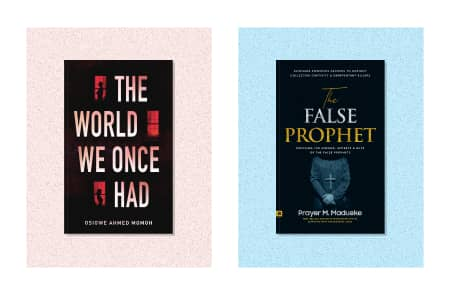
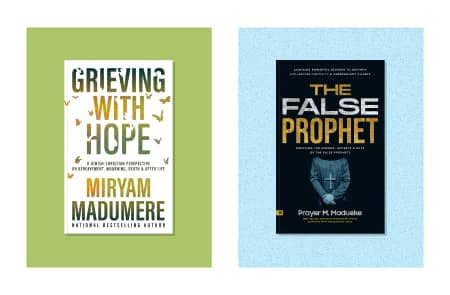
3 new book designs

diff --git a/assets/css/styles.css b/assets/css/styles.css
@@ -1868,6 +1868,12 @@ body.sidebar-opened .copyright {
           transform: scale(1.1);
 }
 
+#works .designs .design.full-width {
+  -ms-grid-column: 1;
+  -ms-grid-column-span: 2;
+  grid-column: 1 / span 2;
+}
+
 @media (min-width: 1000px) {
   #works .designs .design.full-width {
     -ms-grid-column: 1;

diff --git a/assets/css/styles.scss b/assets/css/styles.scss
@@ -1728,6 +1728,8 @@ body.sidebar-opened {
 			}
 
 			&.full-width {
+				grid-column: 1 / span 2;
+
 				@media (min-width: 1000px) {
 					grid-column: 1 / span 3;
 				}

diff --git a/index.php b/index.php
@@ -32,6 +32,15 @@ require_once 'inc/header.php';
         <a class="design" href="assets/images/work/books/3.jpg" data-lightbox="design" data-title="The World We Once Had — by Osigwe Ahmed Momoh">
             <img src="assets/images/work/placeholder/3.jpg" data-src="assets/images/work/books/3.jpg" class="lazy" alt="The World We Once Had — by Osigwe Ahmed Momoh" width="400px" height="auto">
         </a>
+        <a class="design" href="assets/images/work/books/35.jpg" data-lightbox="design" data-title="Treasured Facts and Tips for Adolescents — by Chinweude Ugochukwu">
+            <img src="assets/images/work/placeholder/35.jpg" data-src="assets/images/work/books/35.jpg" class="lazy" alt="Treasured Facts and Tips for Adolescents — by Chinweude Ugochukwu" width="400px" height="auto">
+        </a>
+        <a class="design" href="assets/images/work/books/36.jpg" data-lightbox="design" data-title="Overcoming and Destroying the Spirit of Rejection and Hatred — by Prayer M. Madueke">
+            <img src="assets/images/work/placeholder/36.jpg" data-src="assets/images/work/books/36.jpg" class="lazy" alt="Overcoming and Destroying the Spirit of Rejection and Hatred — by Prayer M. Madueke" width="400px" height="auto">
+        </a>
+        <a class="design" href="assets/images/work/books/37.jpg" data-lightbox="design" data-title="Obesity and Belly Fat Funeral — by Dr. Stephanie Brown">
+            <img src="assets/images/work/placeholder/37.jpg" data-src="assets/images/work/books/37.jpg" class="lazy" alt="Obesity and Belly Fat Funeral — by Dr. Stephanie Brown" width="400px" height="auto">
+        </a>
         <a class="design" href="assets/images/work/books/4.jpg" data-lightbox="design" data-title="The Pathway of Righteousness — by Emmanuel Atoe">
             <img src="assets/images/work/placeholder/4.jpg" data-src="assets/images/work/books/4.jpg" class="lazy" alt="The Pathway of Righteousness — by Emmanuel Atoe" width="400px" height="auto">
         </a>
